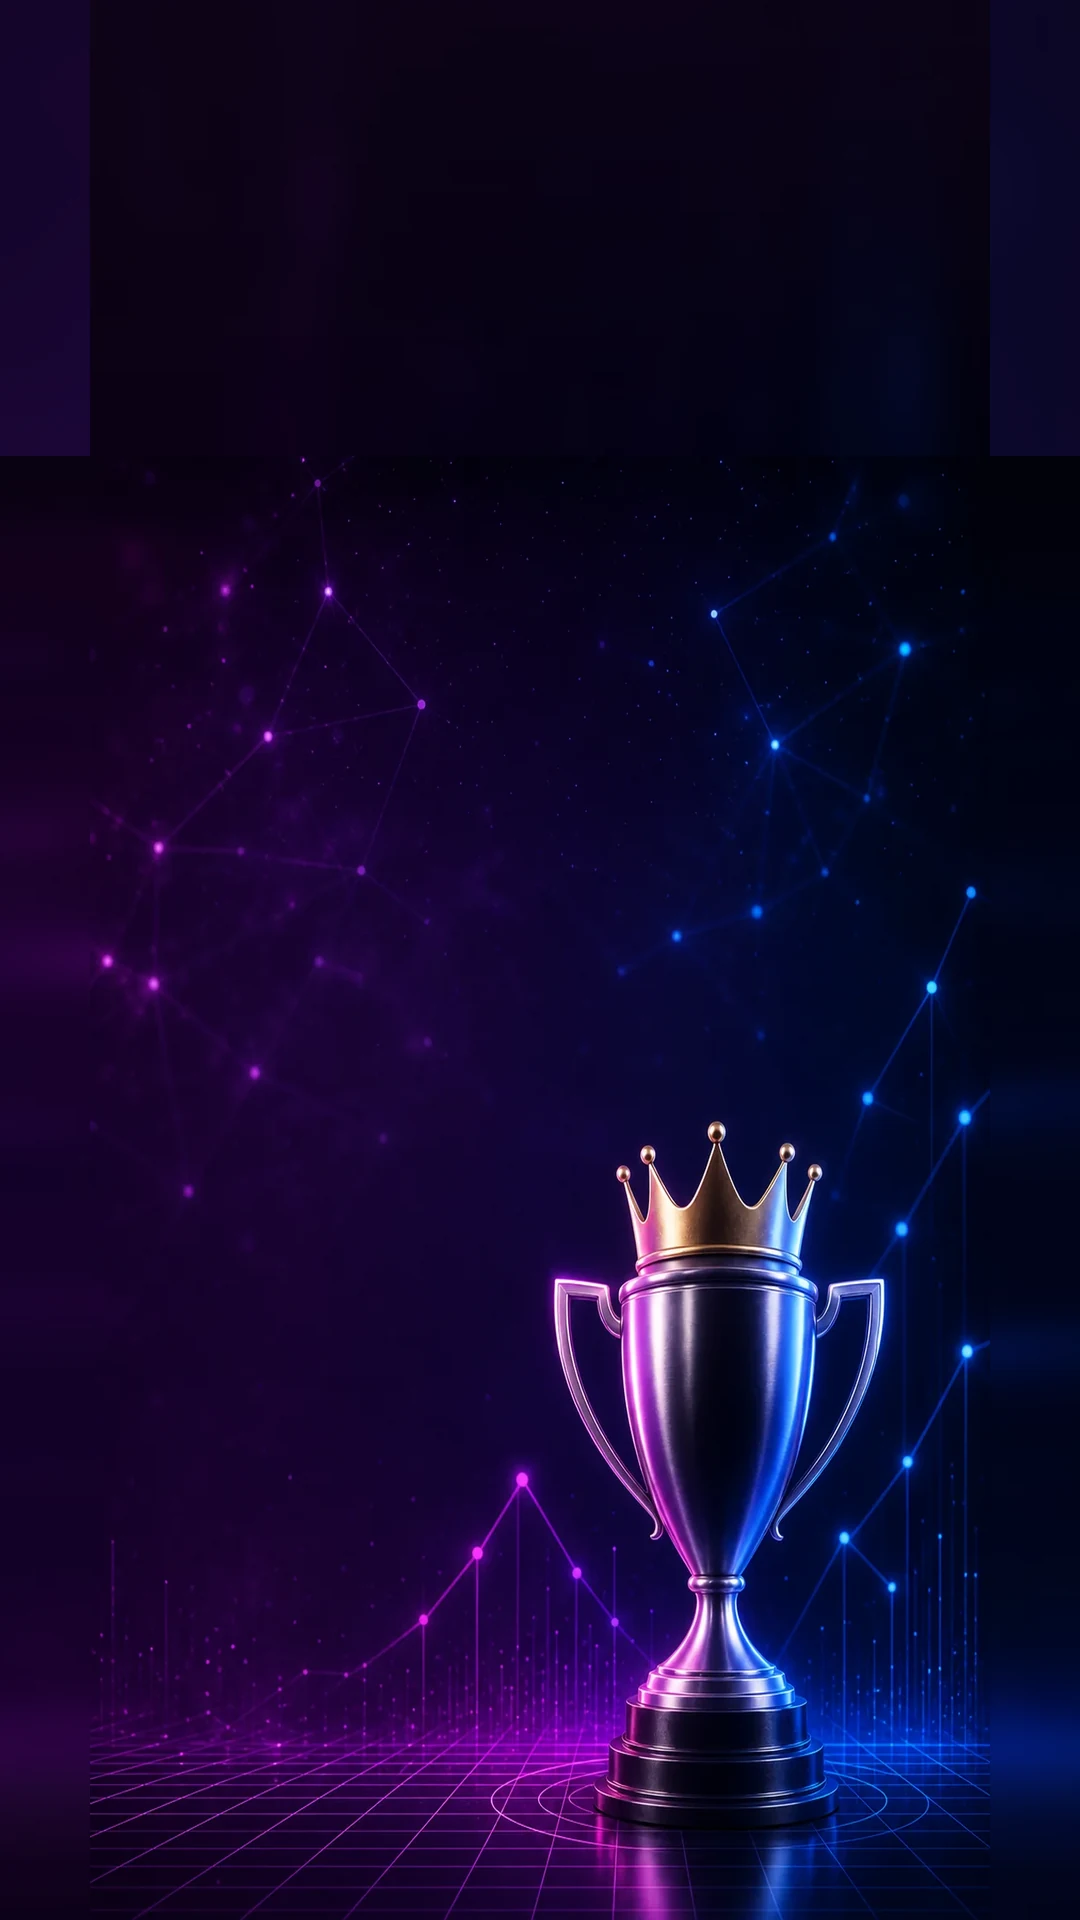
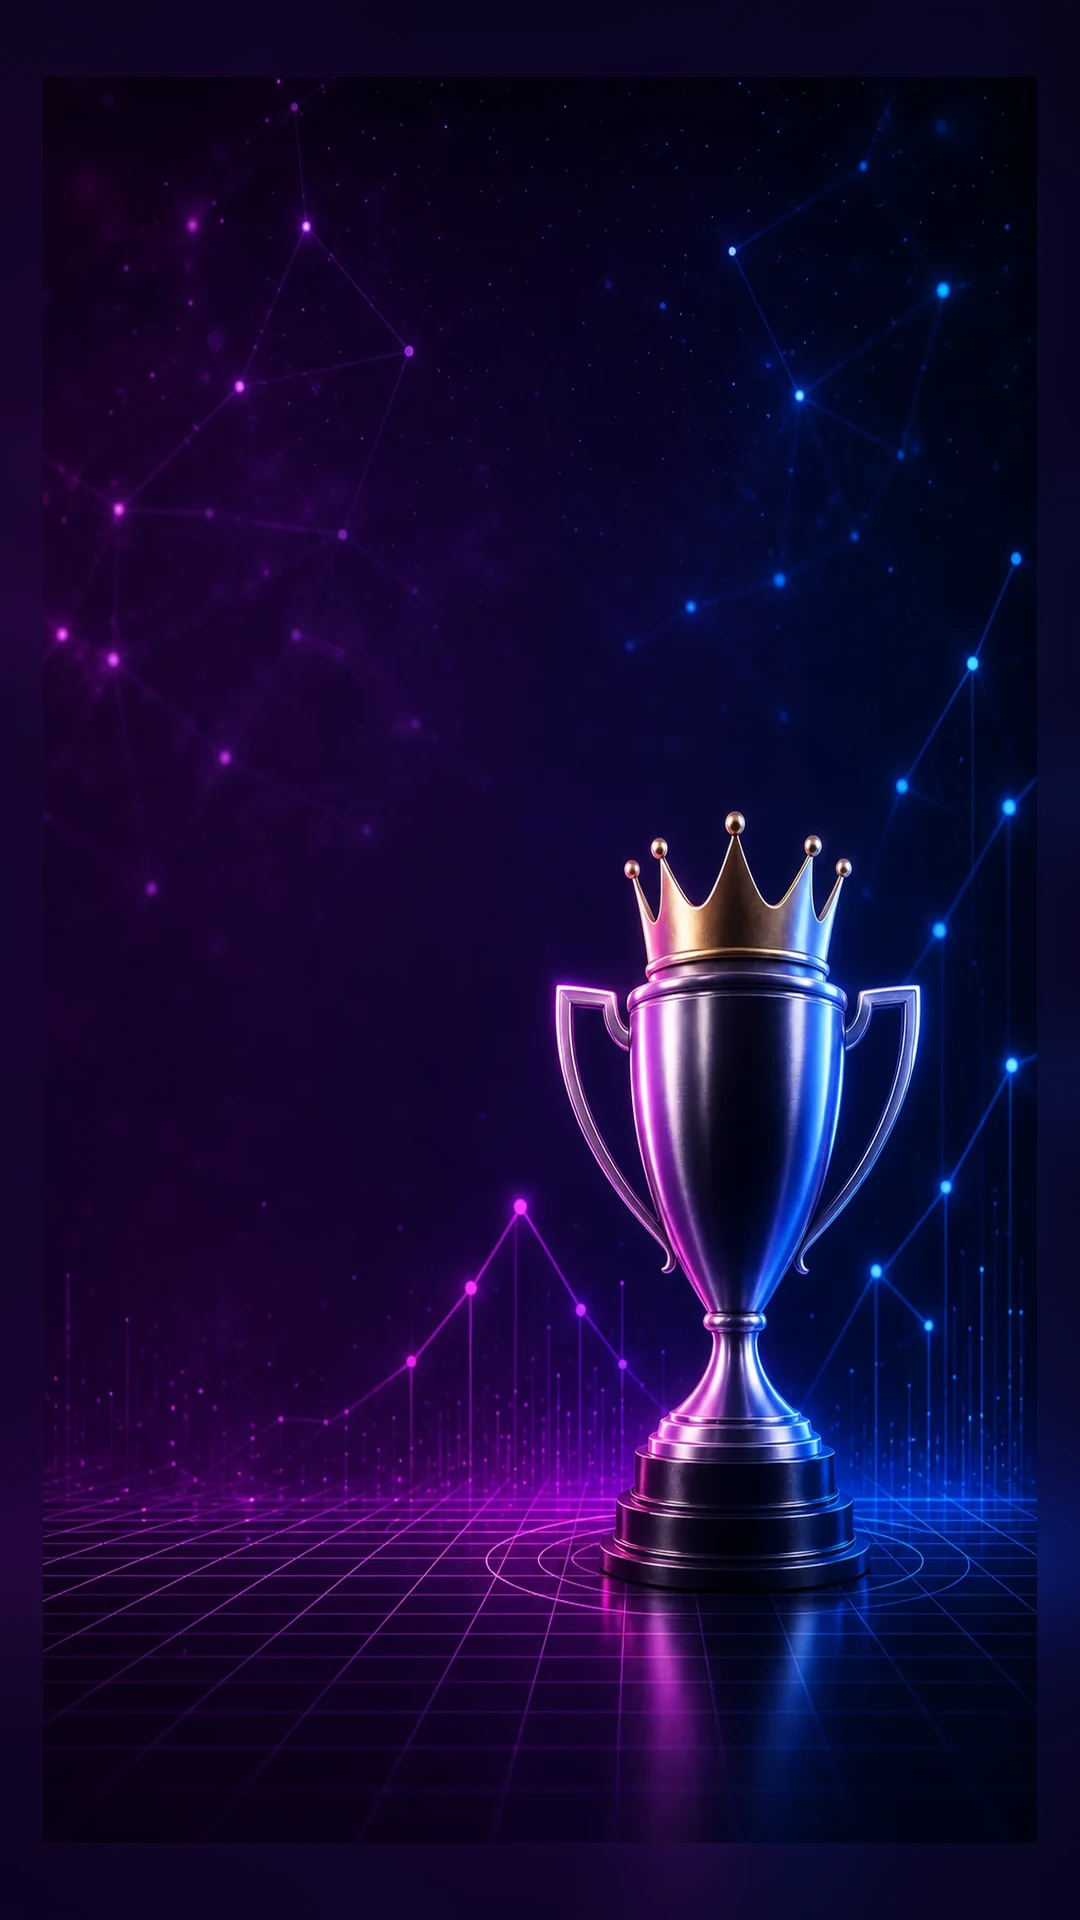
fix(hero): show full centered trophy without crop
Switch hero art to object-contain + centered framing so the crown,
base, and scene are no longer clipped by object-cover bias.

diff --git a/src/components/scl/competition-hero.tsx b/src/components/scl/competition-hero.tsx
@@ -81,34 +81,39 @@ export function CompetitionHero() {
         }
       }}
     >
-      {/* Layer 1 — full-bleed banner: one picture stretched edge-to-edge */}
+      {/* Soft fill so contain letterboxing blends with brand atmosphere */}
+      <div
+        aria-hidden
+        className="pointer-events-none absolute inset-0 bg-[radial-gradient(90%_80%_at_70%_55%,rgba(16,95,217,0.26),transparent_55%),radial-gradient(70%_70%_at_25%_45%,rgba(166,0,127,0.20),transparent_50%),linear-gradient(180deg,var(--scl-ink-950),var(--scl-ink-900))]"
+      />
+      {/* Layer 1 — object-contain keeps the full trophy scene (no crop) */}
       <picture className="pointer-events-none absolute inset-0 block size-full">
         <source
           media="(min-width: 640px)"
-          srcSet="/assets/scl/leaderboard-trophy-desktop.webp?v=20260717h4"
+          srcSet="/assets/scl/leaderboard-trophy-desktop.webp?v=20260717f3"
         />
         <img
-          src="/assets/scl/leaderboard-trophy-mobile.webp?v=20260717h4"
+          src="/assets/scl/leaderboard-trophy-mobile.webp?v=20260717f3"
           alt=""
           width="1920"
           height="1080"
           fetchPriority="high"
           decoding="async"
-          className="absolute inset-0 size-full max-w-none object-cover object-[78%_32%]"
+          className="absolute inset-0 size-full max-w-none object-contain object-center"
         />
       </picture>
       {/* Layers 2–4 — ink scrims for copy contrast only (no hue shift) */}
       <div
         aria-hidden
-        className="absolute inset-0 bg-[color:var(--scl-ink-950)]/20"
+        className="absolute inset-0 bg-[color:var(--scl-ink-950)]/15"
       />
       <div
         aria-hidden
-        className="absolute inset-0 bg-gradient-to-r from-[color:var(--scl-ink-950)]/55 via-[color:var(--scl-ink-950)]/20 to-transparent"
+        className="absolute inset-0 bg-gradient-to-r from-[color:var(--scl-ink-950)]/55 via-[color:var(--scl-ink-950)]/15 to-transparent"
       />
       <div
         aria-hidden
-        className="absolute inset-0 bg-gradient-to-t from-[color:var(--scl-ink-950)]/40 via-transparent to-[color:var(--scl-ink-950)]/15"
+        className="absolute inset-0 bg-gradient-to-t from-[color:var(--scl-ink-950)]/35 via-transparent to-[color:var(--scl-ink-950)]/10"
       />
 
       <div className="relative mx-auto flex min-h-[31rem] w-full max-w-6xl flex-col px-4 py-8 sm:min-h-[36rem] sm:justify-center sm:px-6 sm:py-14">

diff --git a/docs/SCL_DEPLOYMENT.md b/docs/SCL_DEPLOYMENT.md
@@ -127,4 +127,4 @@ Vercel **project env vars** (`DATABASE_URL`, `AUTH_SECRET`, …) only configure 
 They do **not** trigger builds. Without a working Option A auto-deploy or a Deploy Hook /
 CLI secrets, merges to `main` will not change the live site.
 
-<!-- deploy-hook check 2026-07-17T20:55:00Z trophy headroom zoom-out -->
+<!-- deploy-hook check 2026-07-17T21:15:00Z hero full-frame centered contain -->
